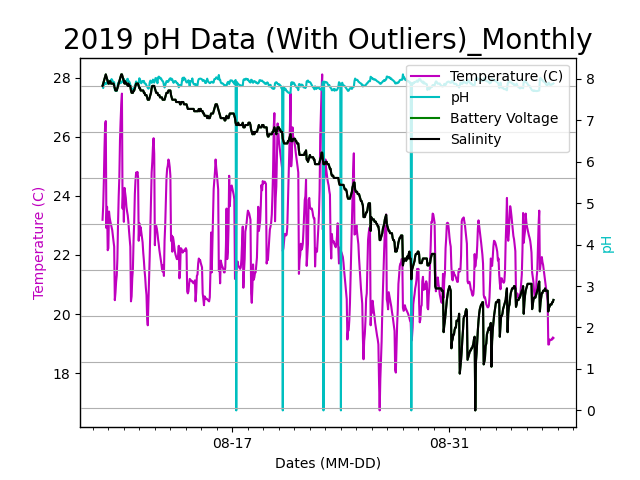
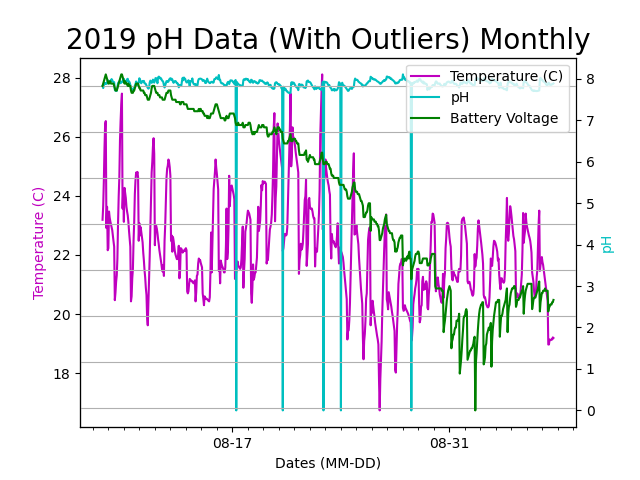
fixed monthly extractor for pH

diff --git a/pCO2_data/pH_monthly_outlier_extractor.py b/pCO2_data/pH_monthly_outlier_extractor.py
@@ -62,14 +62,12 @@ with open(os.path.join(__location__, 'pH_2019_Complete_Data.csv'),'r') as csvfil
         
         # Checks if time entry has corresponding Temperature, Salinity, pH, Battery Voltage, Calendar Date, and Time
         # If not, does not include data point in graph
-        if not row[1] == "" and not row[2] == "" and not row[3] == "" and not row[4] == "" and not row[5] == "" and not row[6] == "" and numofLinesD > 0:
+        if not row[1] == "" and not row[2] == "" and not row[3] == "" and not row[4] == "" and numofLinesD > 0:
             xData.append(float(row[0]))
             tyData.append(float(row[1]))
             syData.append(float(row[2]))
             pyData.append(float(row[3]))
             byData.append(float(row[4]))
-            # dsData.append(float(row[5]))
-            # tsData.append(float(row[6]))
             numofLinesD += 1
         elif numofLinesD == 0:
             numofLinesD += 1
@@ -78,7 +76,7 @@ with open(os.path.join(__location__, 'pH_2019_Complete_Data.csv'),'r') as csvfil
 print("Original data after empty values are taken out: ", len(xData))
 
 # Dataframe of original data after blanks removed
-completeRowData = pd.DataFrame({"Date": xData, "Temp": tyData, "Salinity": syData, "pH": pyData, "Battery": byData})
+completeRowData = pd.DataFrame({"Date": xData, "Temp": tyData, "pH": pyData, "Battery": byData})
 
 
 
@@ -170,7 +168,7 @@ for dateValue in extractedData.get("Date"):
 
 
 # Creates dataframes of data grapher without outliers
-pco2DF = pd.DataFrame({"Date": xDataTrueNO, "Temperature (C)": extractedData.get("Temp"), "Salinity": extractedData.get("Salinity"),
+pco2DF = pd.DataFrame({"Date": xDataTrueNO, "Temperature (C)": extractedData.get("Temp"),
                        "pH": extractedData.get("CO2"), "Battery": extractedData.get("Battery")})
 
 
@@ -192,10 +190,9 @@ print(kstest(extractedData.get("Temp"), 'norm'))    # Not normally distributed
 print(kstest(extractedData.get("Battery"), 'norm')) # Not normally distributed
 '''
 
-def grapher(time, tempC, salinity, pH, batteryV, name):
+def grapher(time, tempC, pH, batteryV, name):
     x = time
     ty = tempC
-    cy = salinity
     py = pH
     by = batteryV
 
@@ -231,25 +228,25 @@ def grapher(time, tempC, salinity, pH, batteryV, name):
     ax3.spines["right"].set_position(("outward", 60))
     ax3.yaxis.label.set_color(p3[0].get_color())
 
-
+    '''
     # Salinity plot
     ax4 = ax1.twinx()
     p4 = ax4.plot(x, by, color = 'k', linestyle = 'solid', label = "Salinity")
     ax4.set_ylabel("Salinity")
     ax4.spines["right"].set_position(("outward", 120))
     ax4.yaxis.label.set_color(p4[0].get_color())
-
+    '''
    
     
     # Sets title, adds a grid, and shows legend
     plt.title(name, fontsize = 20)
     plt.grid(True)
-    plt.legend(handles=p1+p2+p3+p4)
+    plt.legend(handles=p1+p2+p3)
 
     return
 
 # Plots graph without outliers
-grapher(xDataTrueNO, extractedData.get("Temp"), extractedData.get("Salinity"), extractedData.get("pH"), extractedData.get("Battery"), 
+grapher(xDataTrueNO, extractedData.get("Temp"), extractedData.get("pH"), extractedData.get("Battery"), 
         "2019 pH Data (No Outliers)")
 
 # Saves without outliers graph to specified name in pCO2_data folder
@@ -257,7 +254,7 @@ plt.savefig('pH_2019_Graph_No_Outliers.png')
 
 
 # Plots graph with outliers
-grapher(xDataTrueO, tyData, syData, pyData, byData, "2019 pH Data (With Outliers)_Monthly")
+grapher(xDataTrueO, tyData, pyData, byData, "2019 pH Data (With Outliers) Monthly")
 
 # Saves with outliers graph to specified name in pCO2_data folder
 plt.savefig('pH_2019_Graph_With_Outliers_Monthly.png')
@@ -276,17 +273,17 @@ def minMax(data, output):
 scaledValuePH = []
 scaledValueTemp = []
 scaledValueBattery = []
-scaledValueSalinity = []
+#scaledValueSalinity = []
 
 
 # Dataframe only contains scaled values
 minMax(extractedData.get("pH"), scaledValuePH)
 minMax(extractedData.get("Temp"), scaledValueTemp)
 minMax(extractedData.get("Battery"), scaledValueBattery)
-minMax(extractedData.get("Salinity"), scaledValueSalinity)
+#minMax(extractedData.get("Salinity"), scaledValueSalinity)
 
 
-pco2DFscaled = pd.DataFrame({"Date": xDataTrueNO, "Temperature (C)": scaledValueTemp, "Salinity": scaledValueSalinity, "pH": scaledValuePH, 
+pco2DFscaled = pd.DataFrame({"Date": xDataTrueNO, "Temperature (C)": scaledValueTemp, "pH": scaledValuePH, 
                              "Battery": scaledValueBattery})
 
 
